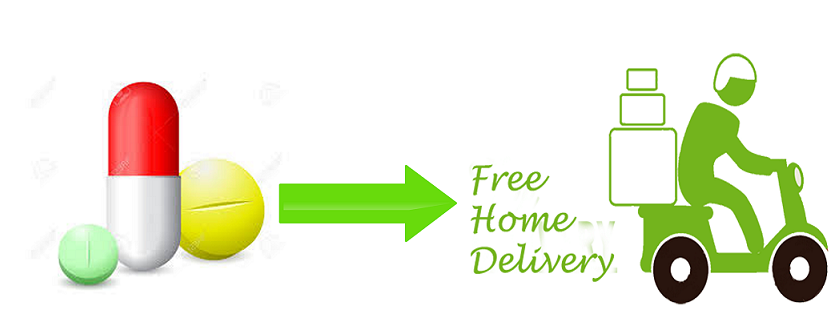
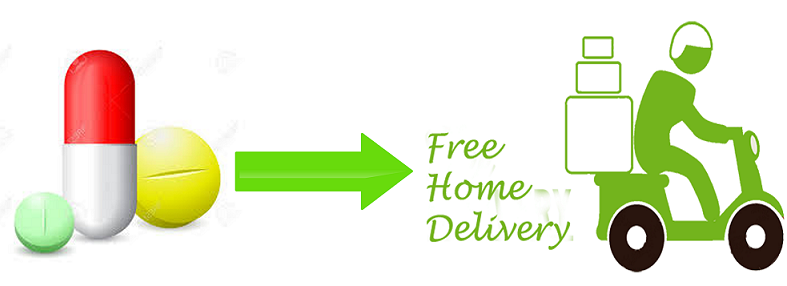
edit

Changed region(s): [[0.0, 0.0559, 1.0, 0.951]]

diff --git a/index.html b/index.html
@@ -128,13 +128,18 @@
          <p class="text-muted" id="pharma"><font color="#FF3333">We will start this service very soon</font></p>
     </div>
     </div>
+    <div class="container">
     <div class="row">
     <h2 class="text-center section-heading text-primary" style="display: block;">Pharmacy</h2>
     <div class="col-sm-4">
-    <img src="./WebContent/images/Untitled.png" alt="image" style="margin-left:30px width:100; height:150px;" >
+    <img src="./WebContent/images/Untitled.png" alt="image" width=100%; height=100%;" >
+    <br>
+    <br>
     </div>
     <div class="col-sm-8">
-   <p> Very soon we will start 24*7 Ambulance Service. Other features of this service will be updated soon</p>
+   <p> healthOk is an easy, reliable way to get your medications. And medications are often at lower prices than at a retail pharmacy.
+   </p>
+    </div>
     </div>
     </div>
 <div id="p2" style="display:none">

diff --git a/WebContent/js/addjquery.js b/WebContent/js/addjquery.js
@@ -5,20 +5,20 @@ $(document).ready(function(){
 		 $('html, body').animate({scrollTop: offset.top}, 'slow');
 		return false;
 	}); 
-$('#scroll2').click(function(){
-	var p = $( "#ser" );
+	$('#two').click(function(){
+		var p=$("#pharma");
+		var offset=p.offset();
+		 $('html, body').animate({scrollTop: offset.top}, 'slow');
+		return false;
+	}); 
+$('#three').click(function(){
+	var p = $( "#pharma" );
 	var offset = p.offset();
 	 $('html, body').animate({scrollTop: offset.top}, 'slow');
 	return false;
 }); 
-$('#scroll3').click(function(){
-	var p = $( "#ser" );
-	var offset = p.offset();
-	 $('html, body').animate({scrollTop: offset.top}, 'slow');
-	return false;
-}); 
-$('#scroll4').click(function(){
-	var p = $( "#ser" );
+$('#four').click(function(){
+	var p = $( "#pharma" );
 	var offset = p.offset();
 	 $('html, body').animate({scrollTop: offset.top}, 'slow');
 	return false;
